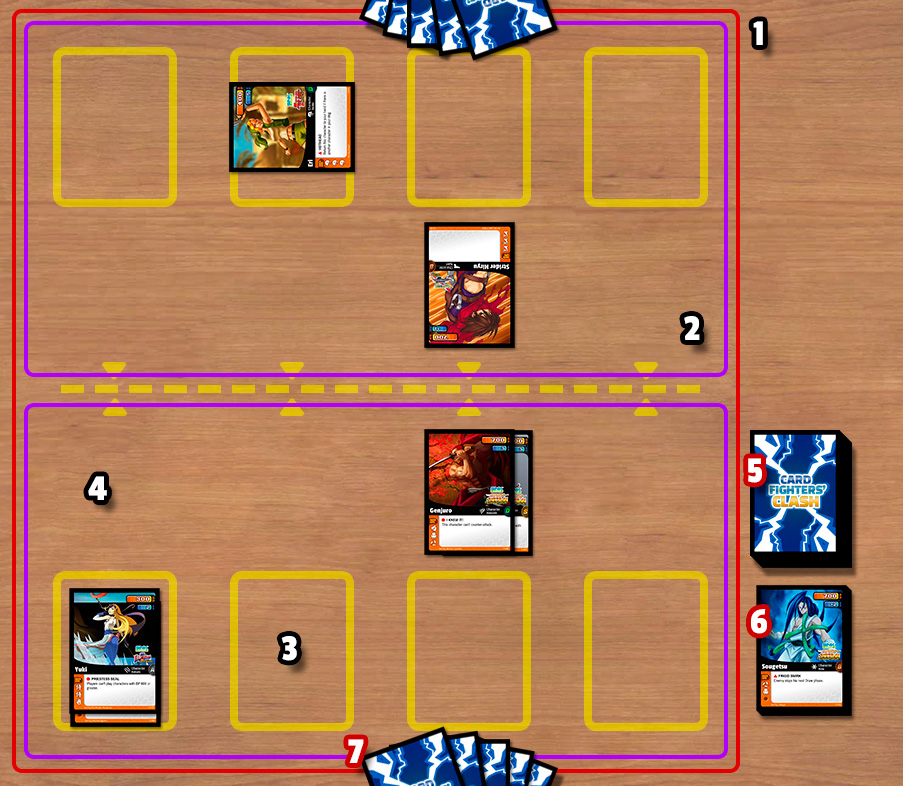
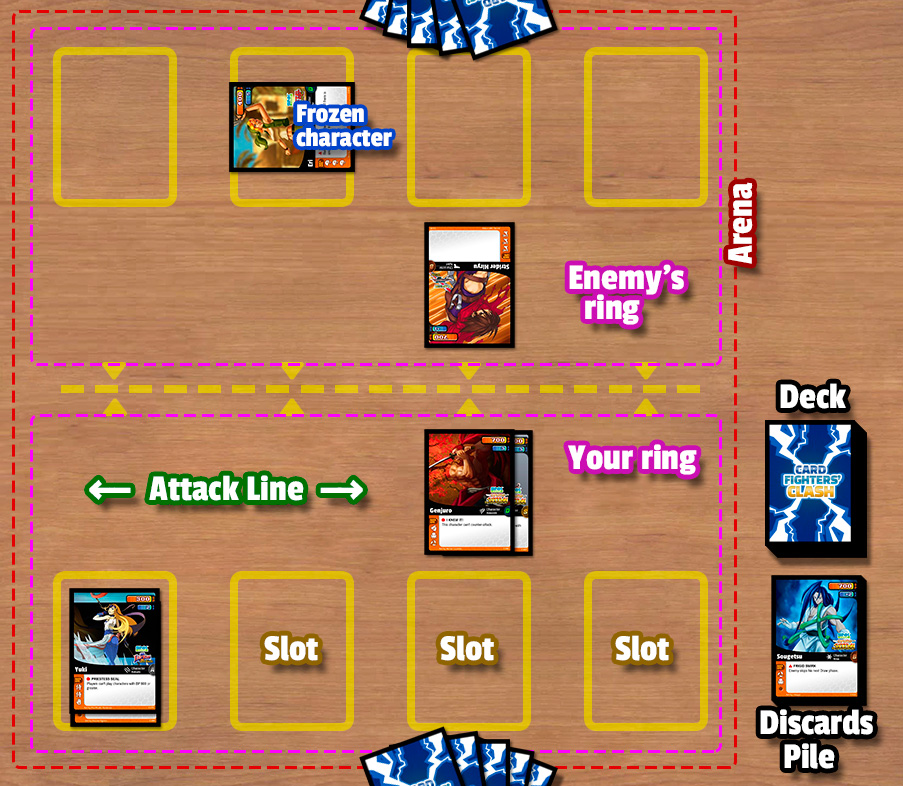
Updated documentation

diff --git a/o8g/Documents/CFC-Rules.md b/o8g/Documents/CFC-Rules.md
@@ -6,7 +6,7 @@ This document is designed for people who want to start learning the rules and ga
 ## Introduction
 Card Fighters' Clash (we will refer to it as CFC) is a card game for two players based on SNK Playmore’s video game [SNK vs. Capcom Card Fighters' Clash 2 Expand Edition](http://neogeo.freeplaytech.com/svc-2/). Players try to defeat each other in a battle playing powerful characters based on Capcom and SNK Playmore video games. Characters have unique abilities that can dramatically change the course of the game, and the character's KI energy is manifested in the form of Soul Points, which can be used to attack the opponent or to play Action cards and Reaction cards –they add exciting effects to the battle that can be played even in opponent's turn.
 
-Players start the game (in CFC every game is a battle!) with a deck of cards. A deck may contain any number Character, Action or Reaction cards, but it can't have more than three copies of any single card with the same name. Each player shuffles his deck and draws an initial hand of 5 cards, and then they are ready to fight.
+Players start the game (in CFC every game is a battle!) with a deck of cards and an initial amount of HP (Hit Points or player's life). A deck may contain any number Character, Action or Reaction cards, but it can't have more than three copies of any single card with the same name. Each player shuffles his deck and draws an initial hand of 5 cards, and then they are ready to fight.
 
 In their respective turn, players draw cards from his deck, play cards from his hand and attack the opponent (in CFC we refer to an opponent as an *enemy*) with the characters he has in play. The the enemy has the opportunity to counterattack with his characters or by playing Reaction cards.
 
@@ -20,23 +20,23 @@ Round 1, start!
 ## The Game Board
 ![Game board zones](imgs/gameboard-1.jpg)
 
-The game board of CFC has two different zones: the Game Area (**1**) (also called **Arena**) where the players play their cards, and the Piles Zone where the card stacks are (the Deck (**5**), the Discards Pile (**6**) and the Removed Pile).
+The game board of CFC has two different zones: the Game Area (also called **Arena**) where the players play their cards, and the Piles Zone where the card stacks are (the Deck , the Discards Pile and the Removed Pile).
 
-The Arena is divided into two parts, one for each player, called the **Ring** (**2**). The Ring is where the players places their character cards, always in an empty slot (**3**). In a regular CFC game, each Ring has four slots, that means that players can play up to four characters by placing the cards in an empty slot.
+The Arena is divided into two parts, one for each player, called the **Ring**. The Ring is where the players places their character cards, always in an empty slot. In a regular CFC game, each Ring has four slots, that means that players can play up to four characters by placing the cards in an empty slot.
 
-When a player attacks with their characters, these cards are placed in the Attack Line (**4**) by moving them one space forward (but without invading the other player's ring). If the other player blocks an attack (he does a counterattack) with a character, he moves that card to its Attack Line in front of the attacking card.
+When a player attacks with their characters, these cards are placed in the Attack Line by moving them one space forward (but without invading the other player's ring). If the other player blocks an attack (he does a counterattack) with a character, he moves that card to its Attack Line in front of the attacking card.
 
 At the end of a turn, character cards are moved back to their slot.
 
 ### Deck
-Players need a deck (**5**) of at least 50 cards to play CFC. A deck can contain any type of card but with the following limitation: it can't have more than three copies of any single card with the same name (*for example, a deck can contain three cards named "Akuma" and another three cards named "Shinjin Akuma"*).
+Players need a deck of at least 50 cards to play CFC. A deck can contain any type of card but with the following limitation: it can't have more than three copies of any single card with the same name (*for example, a deck can contain three cards named "Akuma" and another three cards named "Shinjin Akuma"*).
 
 When a player draws a card, he must draw from the top of his deck (unless an effect says the opposite).
 
 If a player cannot draw cards form his deck during his Draw phase, he loses the battle.
 
 ### Discards Pile
-When a character is KO'ed (that is, its Battle Points lowers to 0 or by an effect) it's moved from a Ring to its controller Discard Pile (**6**), faced up.
+When a character is KO'ed (that is, its Battle Points lowers to 0 or by an effect) it's moved from a Ring to its controller Discard Pile , faced up.
 Action cards and Reaction cards go to the Discard Pile as well, after their effects are resolved.
 
 Any player may look at a Discards Pile, but the order of the cards can't be changed.
@@ -47,7 +47,7 @@ Some effects (like Fellowship) send cards to the Removed Pile. Cards in this pil
 Removed cards are kept face up and may be examined by any player at any time.
 
 ### Hand
-Cards held by each player are called the Hand (**7**). When starting a battle, players draw 5 cards from their deck.
+Cards held by each player are called the Hand. When starting a battle, players draw 5 cards from their deck.
 
 There's no limit on the number of cards a player can have in his hand.
 
@@ -58,23 +58,23 @@ By playing cards players can bring into the battle powerful fighters and effects
 ### Anatomy of a Card
 ![Parts of a card](imgs/card-parts-1.jpg)
 
-1. **Card name**.
-2. **Battle Points (BP)**. It represents a character's attack power and its strength. When a character is dealt damage, its BP is reduced by that number of damage points.
+1. **Battle Points (BP)**. It represents a character's attack power and its strength. When a character is dealt damage, its BP is reduced by that number of damage points.
    If the BP lowers to zero, that character is KO'ed and goes to the discard pile.
-3. **Soul Points (SP)**. It represents Ki energy in battles. Players can spend SP to play cards and to make United Attacks.  
+2. **Soul Points (SP)**. It represents Ki energy in battles. Players can spend SP to play cards and to make United Attacks.  
    When a player plays a card, he gains the SP listed in that card. If the SP is 0 or is a negative value, then the player must spend that amount from his SP or that card can't be played.
-4. **Type and Subtype**. The upper line is the card type (Character, Action or Reaction), and the lower line is the card subtype. Only Characters have a subtype.  
+3. **Publisher and Team**. These are the name of the video game where a character appeared (second logo) and that game publisher (first logo).
+4. **Card name**.
    The icon on the left represents the card subtype.
-5. **Text box**. This is where a card’s rules appears, which explains the effects it has in the game. Character cards have an ability symbol (<span class="ab ab-instant">▲</span>, <span class="ab ab-activated">■</span> or <span class="ab ab-auto">●</span>) and an ability name at the beginning of the text, printed in bold.  
-   Below the rules text it can appear an italicized text (the flavour text) that adds some description of the CFC world. It has no effect on game play.
-6. **Backups**. The list and number of subtypes with whom a character can be backed up. Every icon represents a card subtype. Only Characters can have backups, up to three.
-7. **Publisher and Team**. These are the name of the video game where a character appeared (second logo) and that game publisher (first logo).
-8. **Rarity**. The letter and the color indicates the rarity of the card and its power.  
+5. **Type and Subtype**. The upper line is the card type (Character, Action or Reaction), and the lower line is the card subtype. Only Characters have a subtype.  
+6. **Rarity**. The letter and the color indicates the rarity of the card and its power.  
    **D** Very common.  
    **C** Common.  
    **B** Uncommon.  
    **A** Rare; very powerful, balanced, and/or great ability.  
    **S** Very rare, unusual ability.
+7. **Text box**. This is where a card’s rules appears, which explains the effects it has in the game. Character cards have an ability symbol (<span class="ab ab-instant">▲</span>, <span class="ab ab-activated">■</span> or <span class="ab ab-auto">●</span>) and an ability name at the beginning of the text, printed in bold.  
+   Below the rules text it can appear an italicized text (the flavour text) that adds some description of the CFC world. It has no effect on game play.
+8. **Backups**. The list and number of subtypes with whom a character can be backed up. Every icon represents a card subtype. Only Characters can have backups, up to three.
 9. **Information line**. Here is shown the illustration credit and the collector number within a set.
 10. **Expansion symbol**. This symbol indicates which set the card is from.
 
@@ -180,11 +180,13 @@ Damage is dealt simultaneously between attacking characters and countering chara
 CFC is designed for two players, each of whom has a customized deck of cards.
 
 ### HP
-The Hit Points represents a player's life. When a player is dealt damage, he loses that much HP.
+The Hit Points represents a player's life. Each player starts the game with 3000 HP.
+
+When a player is dealt damage, he loses that much HP.
 A player loses the battle when his HP drops to 0 or less.
 
 ### SP
-The Soul Points represents a player's Ki energy. They can be spend to pay the cost of playing cards with a negative SP value, or to pay the cost of United Attacks.
+The Soul Points represents a player's Ki energy. SP can be spend to pay the cost of playing cards with a negative SP value, or to pay the cost of United Attacks.
 
 SP can never drop to less than 0. If you don't have enough SP to play a card, then you cannot.
 
@@ -244,7 +246,7 @@ __Copy Ability__
 To copy an ability from a character and give it to another character. Any existing abilities of the target character are replaced with the copy ability.
 
 __Give Ability__
-See "Steal Ability".
+See *Steal Ability*.
 
 __Freeze__
 A character in a "freeze" state (or *frozen*) can't attack, counterattack or activate <span class="ab ab-activated">■</span> abilities.
@@ -272,6 +274,9 @@ When you steal SP from an enemy, that enemy loses an amount of SP and you gain t
 
 __Trash__
 To put cards from the top of your deck into your discard pile.
+
+__Unfreeze__
+When a character leaves the "freeze" state. See *Freeze*.
 
 
 ## Additional Links

diff --git a/o8g/Documents/CFC-FAQ.md b/o8g/Documents/CFC-FAQ.md
@@ -4,13 +4,23 @@
 The mechanics of CFC are the same as the video game, but with the following differences:
 
 + The Ring has four slots for characters instead of three.
-+ Character cards can have negative SP values, like Action and Reaction cards. To play a character with negative SP you must spend that amount from your SP.
++ Character cards can have negative SP values, like Action and Reaction cards. To play a character
+with negative SP you must spend that amount from your SP.
 + Character cards have a subtype (Agent, Boss, Fighter, Pilot, Samurai...).
-+ Character cards don't show a list of names of characters it accepts as backups. Instead they show a list of character subtypes.
++ Character cards don't show a list of names of characters it accepts as backups. Instead they show
+a list of character subtypes.
 + Players own an additional Removed Pile, where their cards removed form the game are put.
 
 ### Why card XXXX has Y SP whereas in the video game it has Z SP?
-To make the game more enjoyable some decisions where taken to balance the game, that mainly affected character cards.
-Characters with low BP now have higher SP value than cards with high BP. That means no more useless cards like Cathy & Roddy in the video game.
+To make the game more enjoyable some decisions where taken to balance the game, that mainly affected
+character cards.
+Characters with low BP now have higher SP value than cards with high BP. That means no more useless
+cards like Cathy & Roddy in the video game.
 
-Depending on the power of character's ability its SP is decreased. For some characters the SP have a negative value due to its powerful abilities, like Kyo's Orochi Wave or Jin Saotome's Saotome Dynamite.
+Depending on the power of character's ability its SP is decreased. For some characters the SP have a
+negative value due to its powerful abilities, like Kyo's Orochi Wave or Jin Saotome's Saotome Dynamite.
+
+### Why my HP is 30 instead of 3000?
+For the sake of simplicity HP, BP and damage points are divided by 100. Small numbers for counters
+are easier to manage in OCTGN than large numbers, since the counters are usually modified in
+increments of 1.

diff --git a/README.md b/README.md
@@ -1,10 +1,20 @@
-Card Fighters' Clash plugin for OCTGN
-=====================================
-
+# Card Fighters' Clash plugin for OCTGN
 Card Fighters' Clash is a card game for two players based on SNK Playmore’s video game [SNK vs. Capcom Card Fighters' Clash 2 Expand Edition](http://neogeo.freeplaytech.com/svc-2/). Players try to defeat each other playing powerful characters from video games licensed by Capcom and SNK Playmore.
 
 This is a game definition plugin for the free card game engine [Online Card and Tabletop Gaming Network (OCTGN)](http://octgn.net/). This plugin allows online playing and creation of CFC decks.
 
 The python scripts are based on the game definitions by [db0](https://github.com/db0).
 
+## Development
+The project uses [Rake](https://github.com/ruby/rake) to automate some tasks, available through the 
+the following commands:
+- `rake build` Builds a .o8g and a .nupkg file from the game definition files using o8build.exe.
+- `rake deploy` Builds and moves the NUPKG file to the OCTGN LocalFeed directory.
+- `rake test` Verifies the files as a valid game definition.
+- `rake versionbump` Increases the build number by 1 in the definition.xml file.
+- `rake octgn` Runs OCTGN in dev mode, in the table view with the CFC plugin loaded.
+- `rake docs` Converts Markdown documents in Documents/ folder into HTML files.
+
+
+## License
 Released under the GNU General Public License version 3.

diff --git a/DEV_NOTES.md b/DEV_NOTES.md
@@ -1,5 +1,4 @@
-Developing with OCTGN
-=====================
+# Developing with OCTGN
 
 Command line arguments:
 
